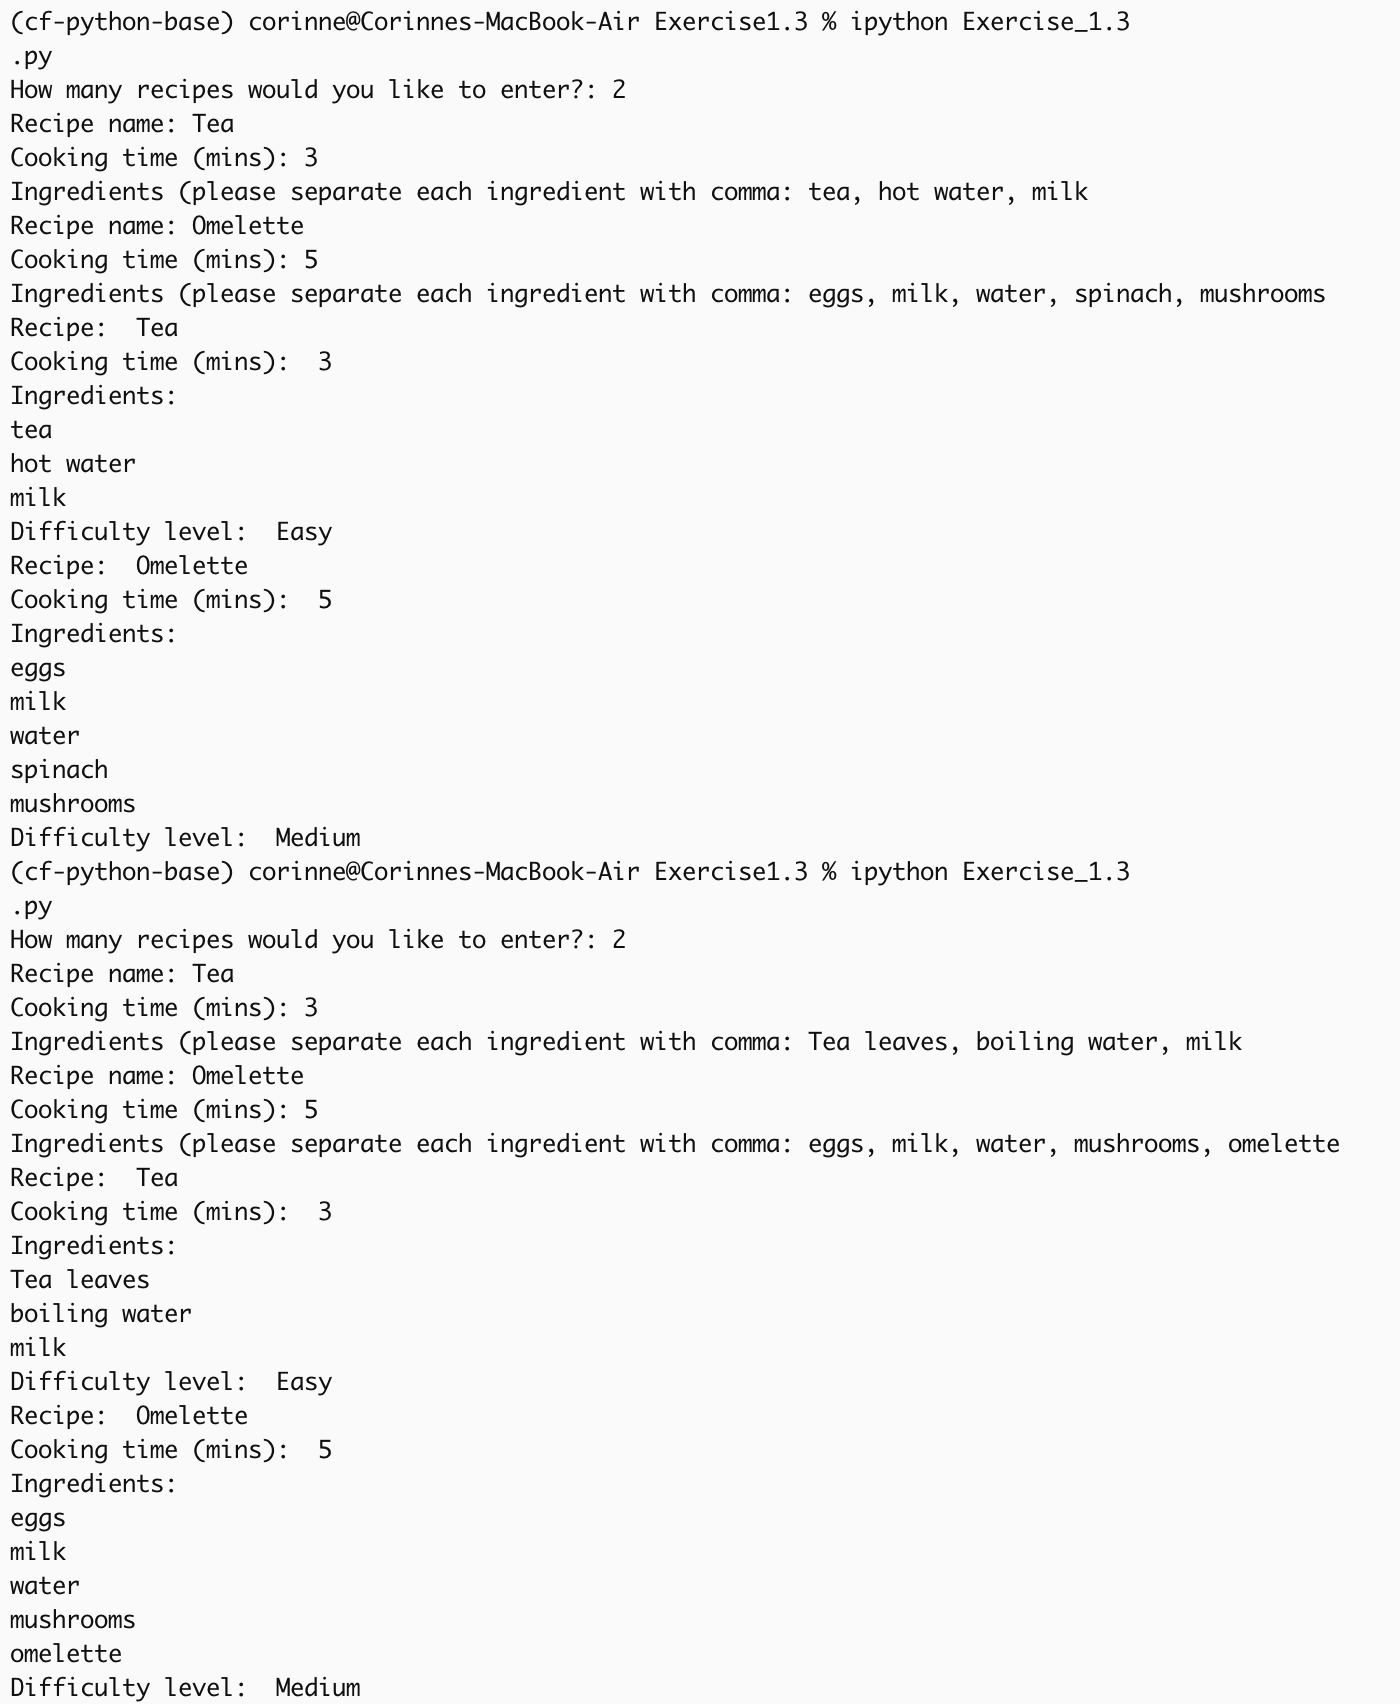
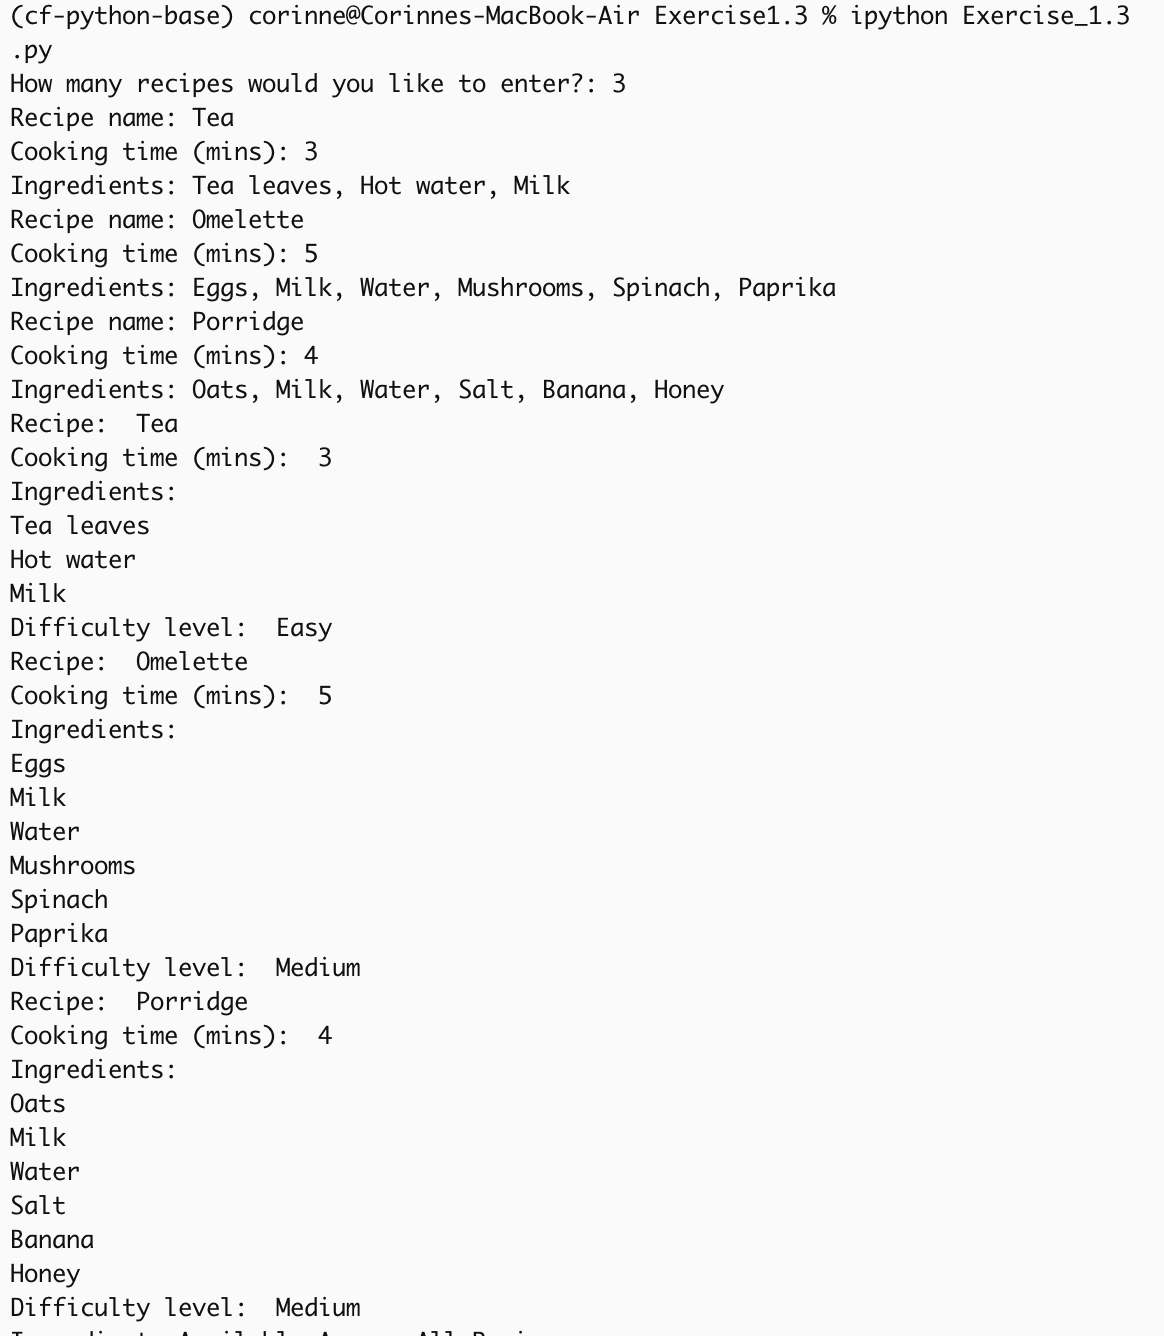
amended exercise1.3 and added exercise1.4

diff --git a/Achievement1/Exercise1.4/recipe_input.py b/Achievement1/Exercise1.4/recipe_input.py
@@ -1,0 +1,91 @@
+import pickle
+
+# take_recipe function for user input
+def take_recipe():
+    name = input('Enter recipe name: ')
+    cooking_time = int(input('Enter cooking time (mins): '))
+    ingredients =  set(input('Enter ingredients: ').split(', '))
+    recipe = {
+      'name': name, 
+      'cooking_time': cooking_time, 
+      'ingredients': ingredients,
+      'difficulty': ""
+    }
+    # calculate recipe diffulty
+    def calc_difficulty():
+        if recipe['cooking_time'] < 10 and len(recipe['ingredients']) < 4:
+            recipe['difficulty'] = 'Easy'
+
+        elif recipe['cooking_time'] < 10 and len(recipe['ingredients']) >= 4:
+            recipe['difficulty'] = 'Medium'
+
+        elif recipe['cooking_time'] >= 10 and len(recipe['ingredients']) < 4:
+            recipe['difficulty'] = 'Intermediate'
+
+        elif recipe['cooking_time'] >= 10 and len(recipe['ingredients']) >= 4:
+            recipe['difficulty'] = 'Hard'
+    calc_difficulty()
+
+    return recipe
+
+# Prompt to open user defined filename
+filename = input("Enter filename of your stored recipes: ") + '.bin'
+
+# Loads file if exists
+try:
+   file = open(filename, 'rb')
+   data = pickle.load(file)
+   print("Recipe added.")
+
+# Creates new binary file if file not found
+except FileNotFoundError:
+   print("File doesn't exist - creating new file.")
+   data = {
+        'recipes_list': [],
+        'all_ingredients': set()
+  }
+
+# Creates new binary file if other error occurs
+except:
+   print("An unknown error occurred - creating new file.")
+   data = {
+        'recipes_list': [],
+        'all_ingredients': set()
+  }
+
+# Closes file (opened in try block) if no errors
+else:
+   file.close()
+
+# Extracts values from dictionary into recipe and ingredient lists 
+finally:
+   recipes_list = data['recipes_list']
+   all_ingredients = data['all_ingredients']
+
+# prompt for user defined recipe number(s) to input
+n = int(input('How many recipes would you like to enter?: '))
+
+# iterate through recipe numbers (n)
+for i in range(n):
+    recipe = take_recipe()
+
+    # check if ingredient to be added to ingredient list
+    for ingredient in recipe['ingredients']:
+      # adds ingredient if not in list
+        all_ingredients.add(ingredient)
+
+    # adds recipe to recipe list
+    recipes_list.append(recipe)
+
+# creates updated dictionary named 'data' with recipes and ingredients
+data = {
+    'recipes_list': recipes_list,
+    'all_ingredients': all_ingredients
+}
+
+# Opens user defined filename and writes data to it using pickle method
+updated_file = open(filename, 'wb')
+pickle.dump(data, updated_file)
+
+updated_file.close()
+print('Recipes updated, goodbye.')

diff --git a/Achievement1/Exercise1.4/recipe_search.py b/Achievement1/Exercise1.4/recipe_search.py
@@ -1,0 +1,53 @@
+import pickle
+
+# Function to take one recipe as argument and print all attributes
+def display_recipe(recipe):
+    print("Recipe: ", recipe['name'])
+    print("Cooking time (mins): ", recipe['cooking_time'])
+    print("Ingredients: ")
+    for ingredient in recipe['ingredients']:
+      print(ingredient)
+    print("Difficulty level: ", recipe['difficulty'])
+   
+# Function to search for ingredient in data   
+def search_ingredient(data):
+    all_ingredients = enumerate(data['all_ingredients'])
+    numbered_ingredients = list(all_ingredients)
+
+    # Print ingredient with indexed number
+    print('Ingredients Available Across All Recipes')
+    print('========================================')
+    for ingredient in numbered_ingredients:
+        print(ingredient[0], ingredient[1])
+
+    # Search user inputted number
+    try:
+        number = int(input("Select ingredient number to search: "))
+        ingredient_searched = numbered_ingredients[number][1]
+        print("Looking for ingredient selected....")
+    # Informs user input incorrect if integer not entered
+    except ValueError:
+        print("Input incorrect, please enter a number only")
+    except:
+        print("An unexpected error occurred - please enter a listed number only") 
+    # Prints recipe(s) containing selected ingredient    
+    else:
+        for recipe in data['recipes_list']:
+            if ingredient_searched in recipe['ingredients']:
+                display_recipe(recipe)
+
+# Opens and loads user inputted filename
+filename = input("Enter filename where you've stored your recipes: ") + '.bin'
+        
+try:
+    file = open(filename, 'rb')
+    data = pickle.load(file)
+    print("File loaded.")
+
+except FileNotFoundError:
+    print("Filename doesn't exist")
+
+else:
+    search_ingredient(data)
+    file.close()
+    

diff --git a/Achievement1/Exercise1.3/Exercise_1.3.py b/Achievement1/Exercise1.3/Exercise_1.3.py
@@ -1,12 +1,12 @@
 # empty lists
 recipes_list = []
-ingredients_list = []
+ingredients_list = set()
 
 # take_recipe function for user input
 def take_recipe():
-    name = str(input('Recipe name: '))
+    name = input('Recipe name: ')
     cooking_time = int(input('Cooking time (mins): '))
-    ingredients =  list(input('Ingredients (please separate each ingredient with comma): ').split(', '))
+    ingredients =  list(input('Ingredients: ').split(', '))
     recipe = {
       'name': name, 
       'cooking_time': cooking_time, 
@@ -23,8 +23,7 @@ for i in range(n):
 
     # check if ingredient to be added to ingredient list
     for ingredient in recipe['ingredients']:
-      if not ingredient in ingredients_list:
-        ingredients_list.append(ingredient)
+      ingredients_list.add(ingredient)
 
     recipes_list.append(recipe)
 
@@ -55,8 +54,8 @@ for recipe in recipes_list:
 def all_ingredients():
   print('Ingredients Available Across All Recipes')
   print('========================================')
-  ingredients_list.sort()
-  for ingredient in ingredients_list:
+  new_ingredients_list_sorted = sorted(ingredients_list)
+  for ingredient in new_ingredients_list_sorted:
     print(ingredient)
 
 all_ingredients()

diff --git a/Achievement1/Exercise1.4/PracticeTasks/recipe_read.py b/Achievement1/Exercise1.4/PracticeTasks/recipe_read.py
@@ -1,0 +1,10 @@
+import pickle
+
+with open('recipe_binary.bin', 'rb') as my_file:
+    recipe = pickle.load(my_file)
+
+print("Recipe details - ")
+print("Name: " + recipe['name'])
+print("Ingredients: ", recipe['ingredients'])
+print("Cooking time (mins): " + str(recipe['cooking_time']))
+print("Difficulty: " + recipe['difficulty'])

diff --git a/Achievement1/Exercise1.4/journal.md b/Achievement1/Exercise1.4/journal.md
@@ -1,0 +1,27 @@
+# Exercise 1.4: File Handling in Python
+
+## Reflection Questions
+
+**1. Why is file storage important when you’re using Python? What would happen if you didn’t store local files?**
+
+_The ability to read data from files and write data to them is vital in preserving data, even after programme or application has closed. If they weren’t stored, the variables in the script to assign and keep track of values no longer exists when the script stops running and can’t be retrieved for later use._
+
+**2. In this Exercise you learned about the pickling process with the pickle.dump() method. What are pickles? In which situations would you choose to use pickles and why?** 
+
+_Pickles convert complex data into packaged stream of bytes (pickles), then write them into a binary file. A binary file can store complex information that can be read by machine, not humans. Pickles are useful for writing to and reading from external files composed of data structures such as lists and dictionaries._
+
+**3. In Python, what function do you use to find out which directory you’re currently in? What if you wanted to change your current working directory?**
+
+_The `os.getcwd()` command is used to find out which file directory you’re currently in.  If you wanted to change your current working director you would enter `os.chdir(“<path to desired folder>”)` to navigate to your chosen directory._
+
+**4. Imagine you’re working on a Python script and are worried there may be an error in a block of code. How would you approach the situation to prevent the entire script from terminating due to an error?**
+
+_You would employ the `try-except` block. First you would place the `print` statement in a try block (ie where the error is expected). Then display an error message in the `except` block saying that the user has entered an erroneous value. The program will not terminate after the error, but report an error message that the user can then try again and enter a value that works, the program can then continue until it’s end._
+
+**5. You’re now more than halfway through Achievement 1! Take a moment to reflect on your learning in the course so far. How is it going? What’s something you’re proud of so far? Is there something you’re struggling with? What do you need more practice with? Feel free to use these notes to guide your next mentor call.**
+
+_I feel the course material is intuitive to follow and builds nicely on the previous learning.  I sometimes feel like I follow along nicely but then when we move onto the next section I quickly forgot what I have just learnt and practiced, and have to retreat back and do a lot of re-reading._  
+
+_I feel proud that I’ve managed to keep to my study and task submission schedule, as there has been a lot of recent challenges at work that has taken up a lot of my time and energy._ 
+
+_In addition to my issue above about retaining new learning, I sometimes struggle with starting off a code from scratch. I find when I look at the examples in the exercise or someone else’s code I can understand and follow it but find it difficult to do without a guide._

diff --git a/Achievement1/Exercise1.4/README.md b/Achievement1/Exercise1.4/README.md
@@ -1,0 +1,10 @@
+# Exercise 1.4: File Handling in Python
+
+## Tasks
+- Use files to store and retrieve data in Python
+
+## Output
+- Created 2 scripts: **"recipe_input.py"** and **"recipe_search.py"**
+- "recipe_input.py" takes recipes from the user, compiles them and their ingredients into a list, and stores in a binary file for later use.  The script can be run again later to add more recipes.
+- "recipe_search.py" accesses the binary file, listing ingredients that are available. User enters an ingredient, and the script displays every recipe containing that specific ingredient. 
+- `try\except` blocks handle `FileNotFoundError` and other exceptions.

diff --git a/Achievement1/Exercise1.3/journal.md b/Achievement1/Exercise1.3/journal.md
@@ -8,7 +8,7 @@
 **The user’s input should be checked for 3 different travel destinations that you define.**
 **If the user’s input is one of those 3 destinations, the following statement should be printed: “Enjoy your stay in ______!”**
 **If the user’s input is something other than the defined destinations, the following statement should be printed: “Oops, that destination is not currently available.**
-```
+```python
 destination = input(‘Where would you like to travel to?’)
 
 if destination == ‘Thailand’:
